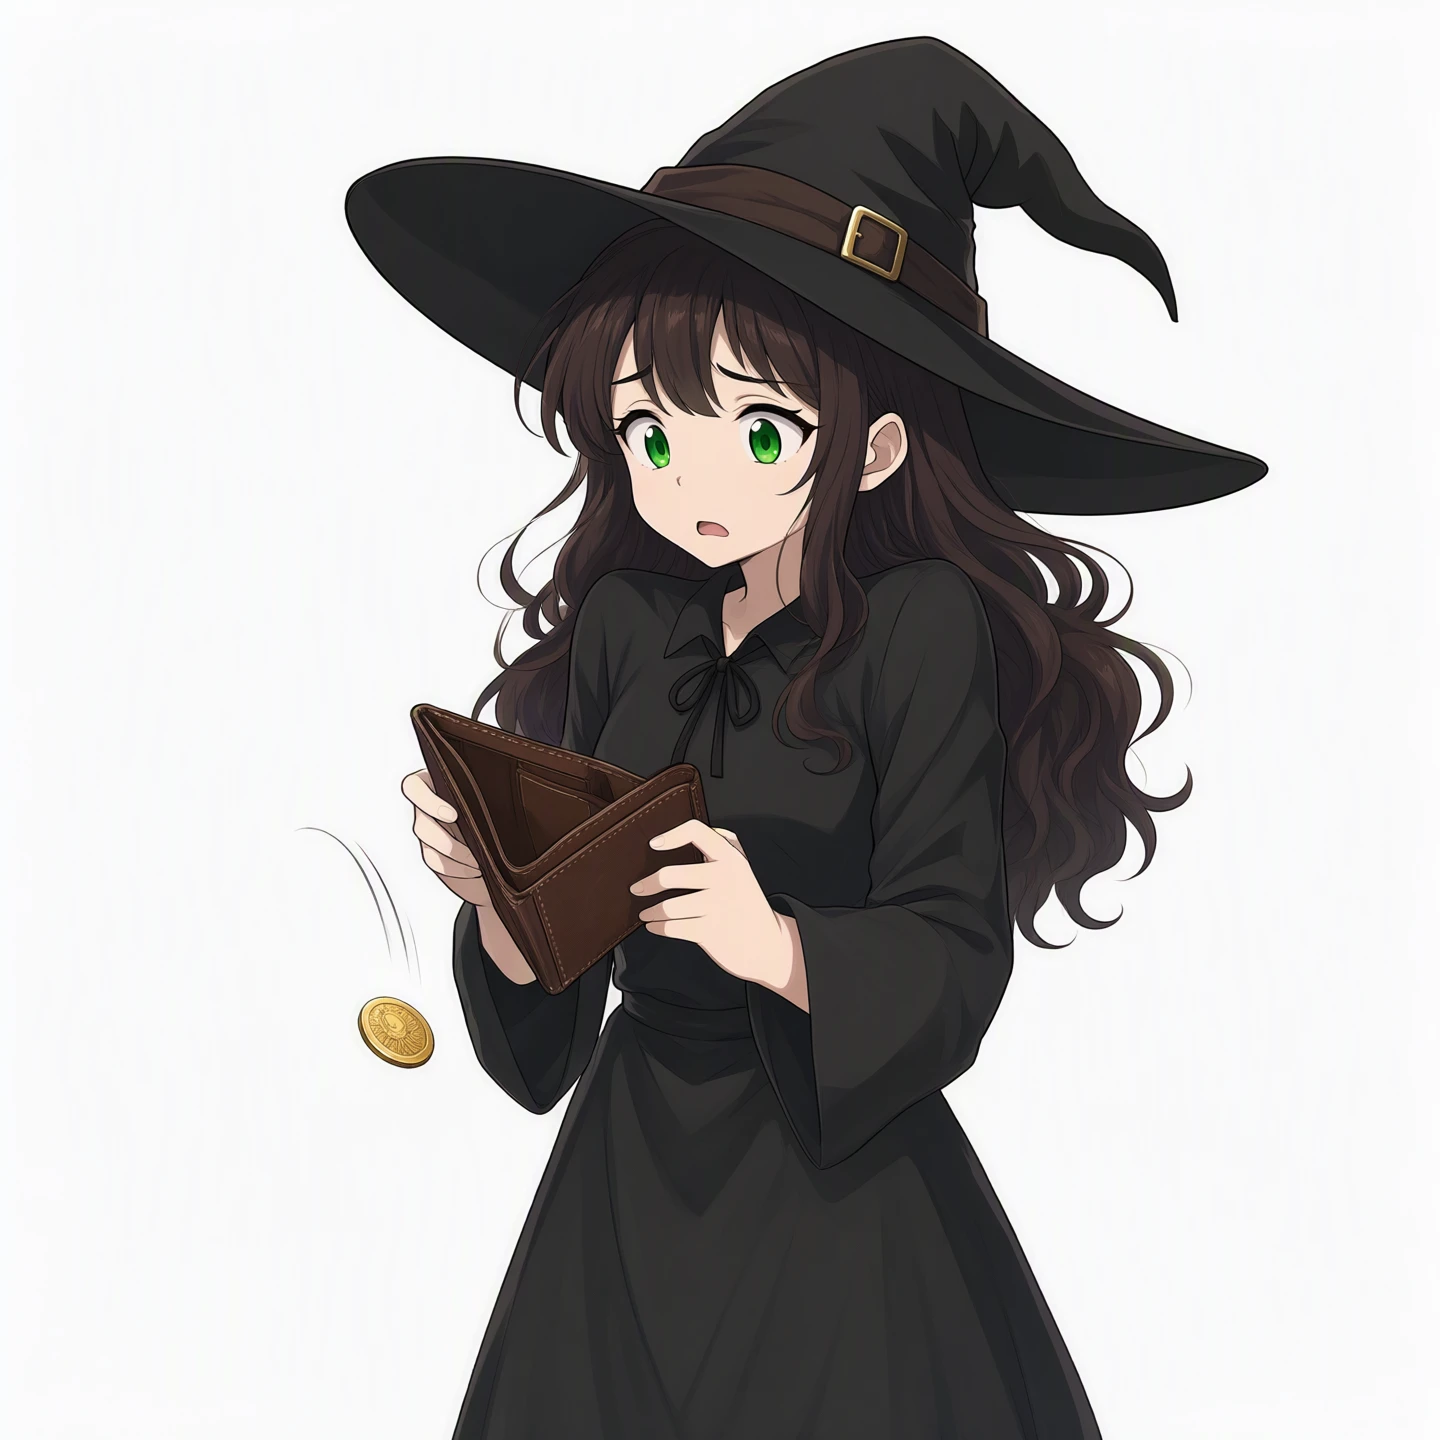
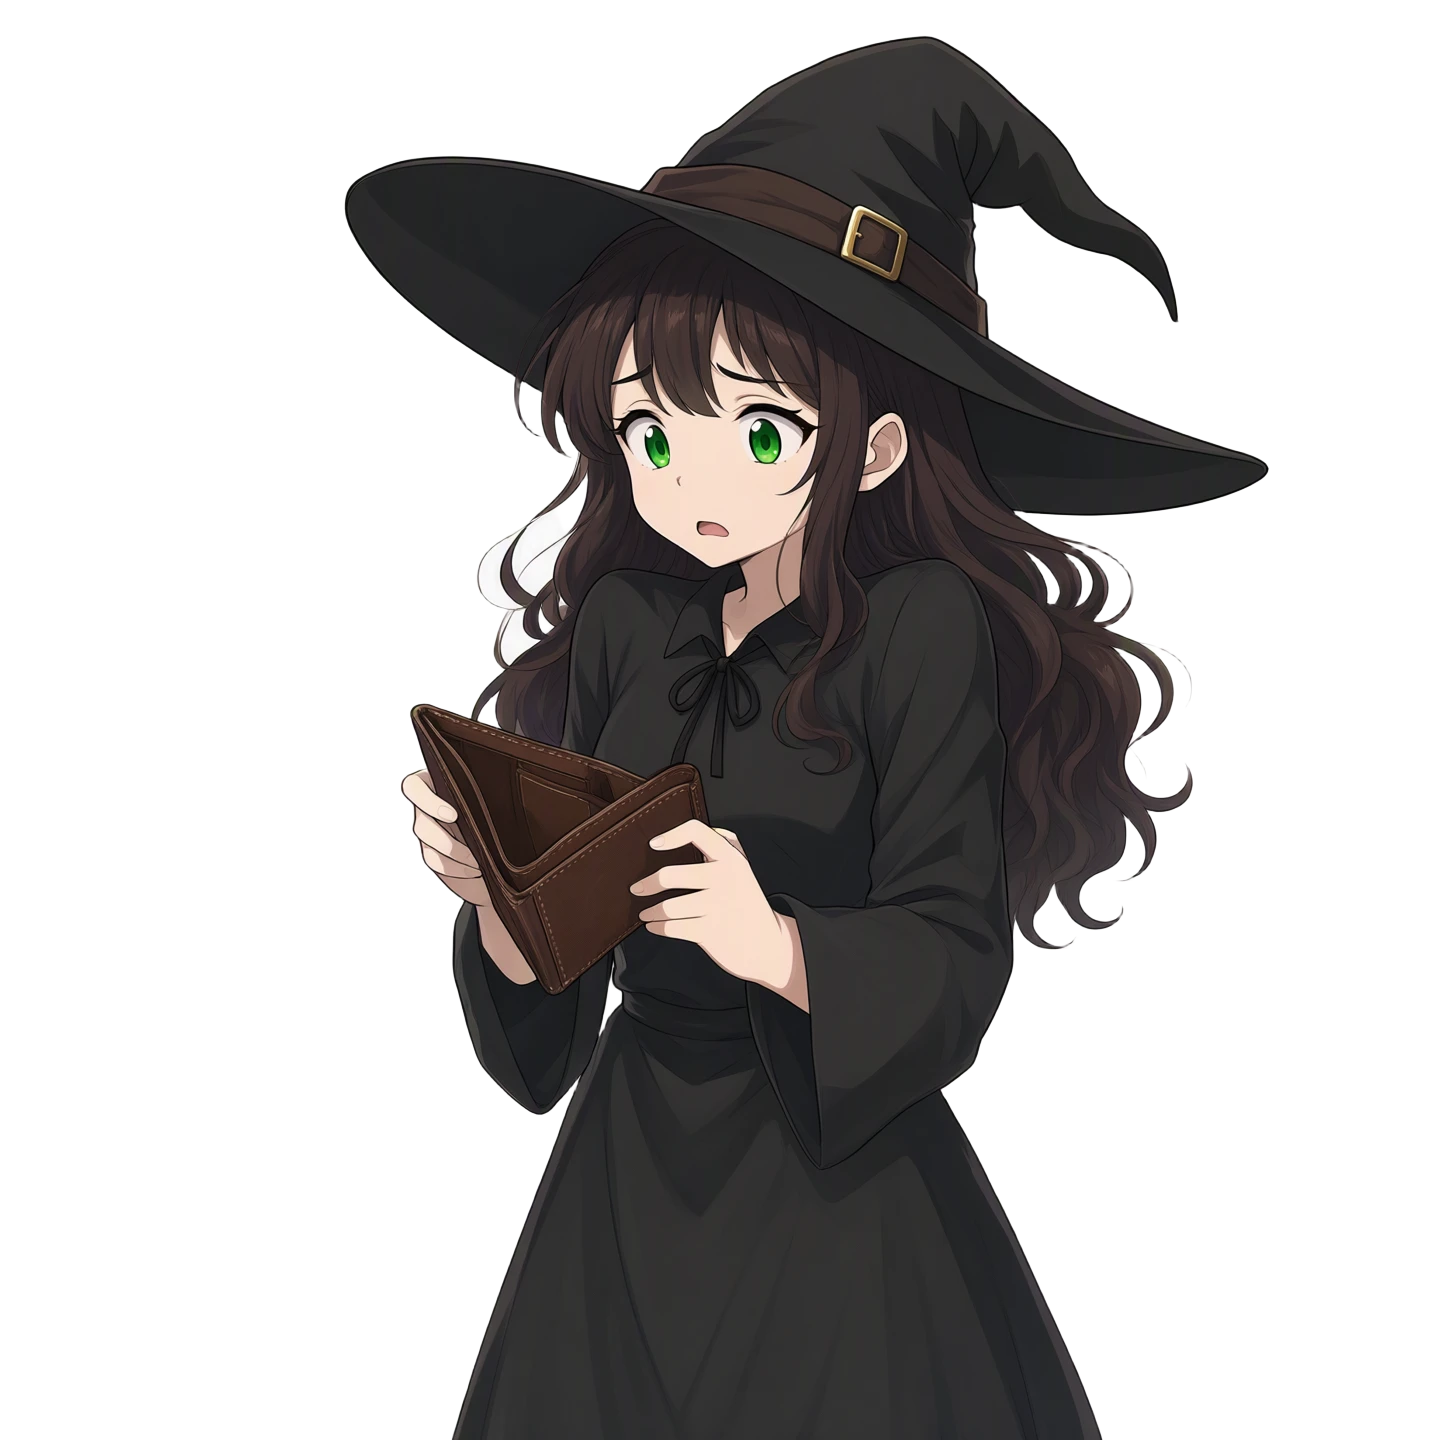
Remove background from empty-invoices illustration

diff --git a/resources/js/Pages/Admin/Invoices/Index.vue b/resources/js/Pages/Admin/Invoices/Index.vue
@@ -57,7 +57,7 @@ function setStatus(value) {
         </div>
 
         <div v-if="!invoices.data.length" class="surface-card">
-            <EmptyState image="/images/kiki/kiki-empty-invoices.webp" image-class="rounded-[18px] border border-line/60 shadow-[0_12px_30px_rgba(16,13,24,.14)]" title="Счетов пока нет" text="Счёт создаётся по задаче. Выберите задачу, сумму и способ оплаты.">
+            <EmptyState image="/images/kiki/kiki-empty-invoices.webp" title="Счетов пока нет" text="Счёт создаётся по задаче. Выберите задачу, сумму и способ оплаты.">
                 <Link :href="route('admin.invoices.create')"><Button size="sm">Создать счёт</Button></Link>
             </EmptyState>
         </div>

diff --git a/resources/js/Pages/Client/Invoices/Index.vue b/resources/js/Pages/Client/Invoices/Index.vue
@@ -42,7 +42,7 @@ function setStatus(value) {
         </div>
 
         <div v-if="!invoices.data.length" class="surface-card">
-            <EmptyState image="/images/kiki/kiki-empty-invoices.webp" image-class="rounded-[18px] border border-line/60 shadow-[0_12px_30px_rgba(16,13,24,.14)]" title="Счетов пока нет" text="Когда работа будет оценена, владелец выставит счёт — он появится здесь." />
+            <EmptyState image="/images/kiki/kiki-empty-invoices.webp" title="Счетов пока нет" text="Когда работа будет оценена, владелец выставит счёт — он появится здесь." />
         </div>
 
         <div v-else class="space-y-2.5">
